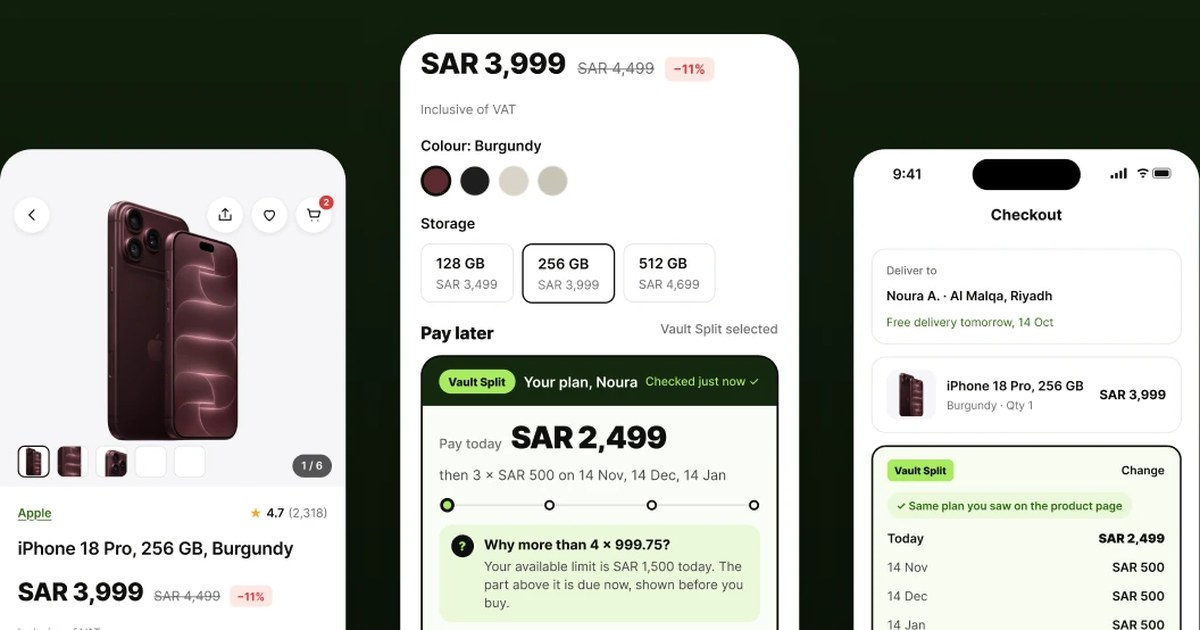
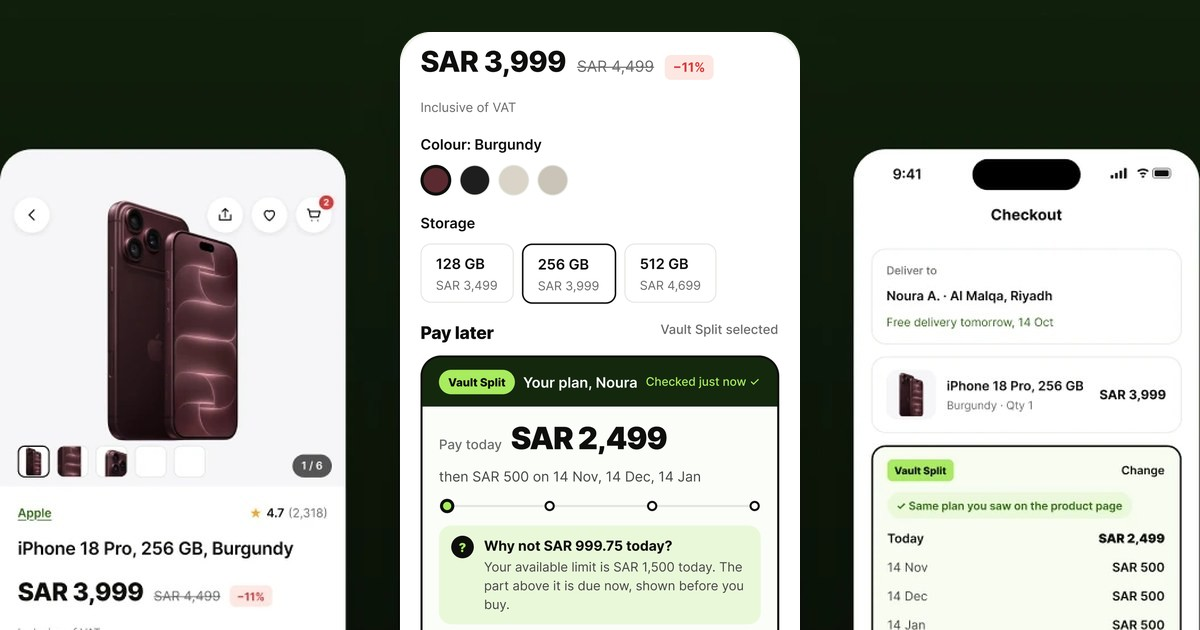
Vault Split: payment copy in plain language, not formulas
Prototype: 'Why not SAR 999.75 today?', 'then SAR 500 on 14 Nov...',
'SAR 2,499 today, then SAR 500 a month'. Screens re-exported from the
updated Figma file (plan-reason, plan-updated, return-approved, Vault
plan comparison), and the share image refreshed to match.

Claude-Session: https://claude.ai/code/session_0154BbPXDkrEcZa3AeQm1uvN

diff --git a/components/case-studies/vault/VaultPlay.tsx b/components/case-studies/vault/VaultPlay.tsx
@@ -23,7 +23,7 @@ const HINTS: Record<Stage, string> = {
   idle: 'Tap Check my plan',
   nafath: 'Tap 47 to approve in Nafath',
   checking: '',
-  plan: 'Not 999.75. Tap Raise my limit',
+  plan: 'Not SAR 999.75. Tap Raise my limit',
   raising: '',
   raised: 'Tap Update my plan',
   updated: 'Tap Continue to checkout',
@@ -276,7 +276,7 @@ function Phone({ stage, nTick, rTick }: { stage: Stage; nTick: number; rTick: nu
                         </span>
                       </div>
                       <p className="text-[14px] text-[#444] mt-1">
-                        then 3 × <Num v={updated ? 833 : 500} /> on 14 Nov, 14 Dec, 14 Jan
+                        then <Num v={updated ? 833 : 500} /> on 14 Nov, 14 Dec, 14 Jan
                       </p>
                       <div className="relative flex justify-between items-center mt-3 mb-3.5 px-0.5">
                         <span className="absolute inset-x-1 top-1/2 h-[2px] -translate-y-1/2 bg-[#D9DDD4]" />
@@ -312,7 +312,7 @@ function Phone({ stage, nTick, rTick }: { stage: Stage; nTick: number; rTick: nu
                             {updated ? <Check className="w-3.5 h-3.5" strokeWidth={3} /> : '?'}
                           </span>
                           <span>
-                            <b className="block text-[15px]">{updated ? 'Limit raised to SAR 2,500' : 'Why more than 4 × 999.75?'}</b>
+                            <b className="block text-[15px]">{updated ? 'Limit raised to SAR 2,500' : 'Why not SAR 999.75 today?'}</b>
                             <span className="block text-[13px] text-[#4A5045] leading-snug mt-0.5">
                               {updated
                                 ? 'Your salary check raised your limit, so only SAR 1,499 is due today.'
@@ -323,7 +323,7 @@ function Phone({ stage, nTick, rTick }: { stage: Stage; nTick: number; rTick: nu
                       </AnimatePresence>
                       <p className="text-[15px] font-semibold mt-4 mb-2.5">Make it work for you</p>
                       <div className="grid gap-2">
-                        <Option on title="Keep this plan" line={updated ? 'SAR 1,499 today, then 3 × 833' : 'SAR 2,499 today, then 3 × 500'} />
+                        <Option on title="Keep this plan" line={updated ? 'SAR 1,499 today, then SAR 833 a month' : 'SAR 2,499 today, then SAR 500 a month'} />
                         <Option title="Choose 128 GB" line={`SAR 3,499 · SAR ${updated ? '999' : '1,999'} today`} chip={<Chip>−500 today</Chip>} />
                         {updated ? (
                           <Option title="Limit raised" line="Done · SAR 2,500 limit" chip={<Chip>Done</Chip>} />
